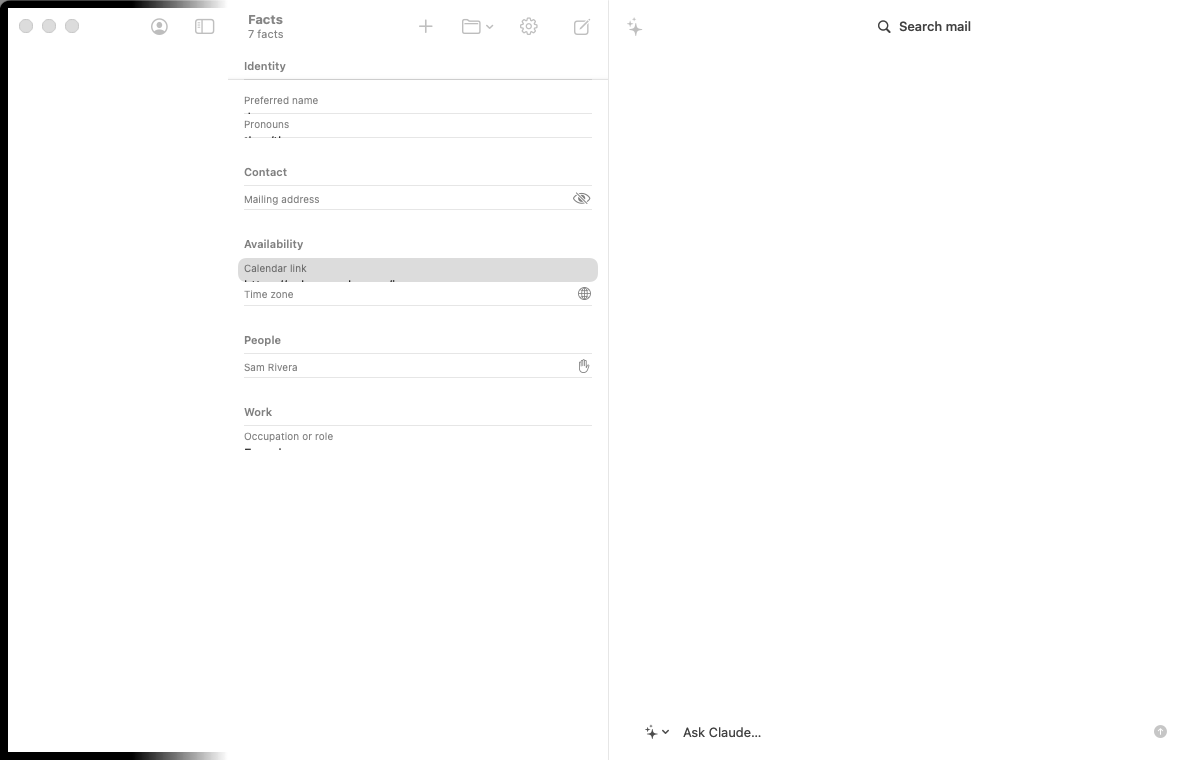
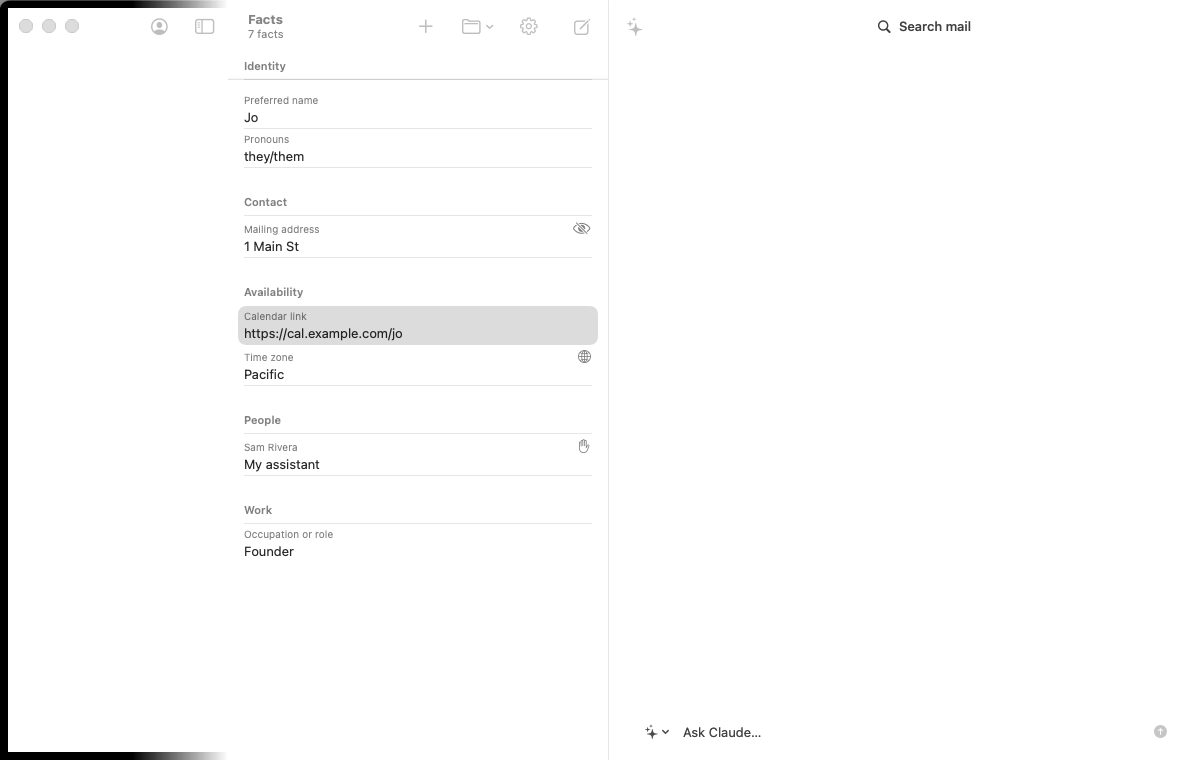
Facts rows show their value line again: the Facts list is built only once it has facts, since rows that arrived in a list first shown empty kept the table's one-line 24-point height, and the design snapshots are refreshed (oagc-9hf)

diff --git a/macos/OpenAGC/Features/Facts/FactsView.swift b/macos/OpenAGC/Features/Facts/FactsView.swift
@@ -10,6 +10,26 @@ struct FactsList: View {
     @FocusState private var focused: Bool
 
     var body: some View {
+        Group {
+            // The List is built only once it has rows. Rows that arrive in a
+            // List shown empty keep the table's one-line height (24 pt) and
+            // lose their value line (oagc-9hf); a List built with its rows
+            // measures each one, and so do rows added later.
+            if store.sections.isEmpty {
+                if store.loaded {
+                    ContentUnavailableView("No Facts Yet", systemImage: "person.text.rectangle",
+                                           description: Text("Facts about you that AI drafts may use: your role, time zone, calendar link, the people you mention."))
+                }
+            } else {
+                list
+            }
+        }
+        .frame(maxWidth: .infinity, maxHeight: .infinity)
+        .onChange(of: model.threadListFocusRequests) { focused = true }
+        .task(id: model.factsRevision) { await store.load() }
+    }
+
+    private var list: some View {
         List(selection: $store.selection) {
             ForEach(store.sections, id: \.category.key) { section in
                 Section {
@@ -24,19 +44,11 @@ struct FactsList: View {
             }
         }
         .listStyle(.inset)
-        .overlay {
-            if store.loaded, store.sections.isEmpty {
-                ContentUnavailableView("No Facts Yet", systemImage: "person.text.rectangle",
-                                       description: Text("Facts about you that AI drafts may use: your role, time zone, calendar link, the people you mention."))
-            }
-        }
         .onDeleteCommand {
             if let fact = store.selected { Task { await model.deleteFact(fact) } }
         }
         // Tab from the sidebar (the main window's loop, spec §14.3).
         .focused($focused)
-        .onChange(of: model.threadListFocusRequests) { focused = true }
-        .task(id: model.factsRevision) { await store.load() }
     }
 }
 
